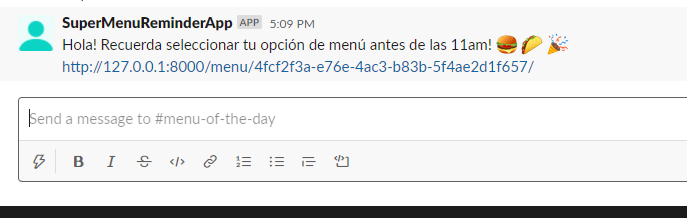
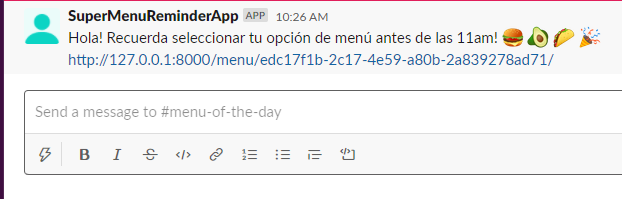
Updates on the readme (images were too big)

Changed region(s): [[0.0, 0.0, 1.0, 1.0]]

diff --git a/norawebapp/helpers/slack_manager.py b/norawebapp/helpers/slack_manager.py
@@ -10,7 +10,7 @@ def broadcast_message_on_slack_channel(menu: Menu):
     url = reverse('slackapp')
     url_to_menu = reverse('menu', kwargs={'id': menu.id})
     link_to_menu = settings.BASE_URL_SERVER + url_to_menu
-    message = f"Hola! Recuerda seleccionar tu opción de menú antes de las 11am! :hamburger: :taco: :tada: \n {link_to_menu}"
+    message = f"Hola! Recuerda seleccionar tu opción de menú antes de las 11am! :hamburger: :avocado: :taco: :tada: \n {link_to_menu}"
     payload = dict(message=message, channel=settings.SLACK_CHANNEL)
     response = requests.post(settings.BASE_URL_SERVER + url, data=payload)
     print(response)

diff --git a/README.md b/README.md
@@ -33,9 +33,12 @@ NOTE: The slack reminders must contain an URL to today's menu with the following
 ## What's new on this version?
 
 - Nora can send whatsapp messages manually on the admin page.
-  ![](readme-static/whatsapp-twilio.jpg)
+  ![](readme-static/whatsapp-twilio.png)
 - Slack messages to the channel can also be send manually (they are also scheduled to be sent every week day at 9:30am).
+
   ![](readme-static/slackapp.png)
+
+  ![](readme-static/menu-of-the-day.png)
 
 ### Validations
 
@@ -94,7 +97,6 @@ python manage.py createsuperuser --username=nora --email=nora@palta.domain.com
 python manage.py runserver
 ```
 
-
 ## Aditional features
 
-- If Nora updates the menu, an automatic new message  is sent via whatsapp to the employees.
+- If Nora updates the menu, an automatic new message is sent via whatsapp to the employees.
